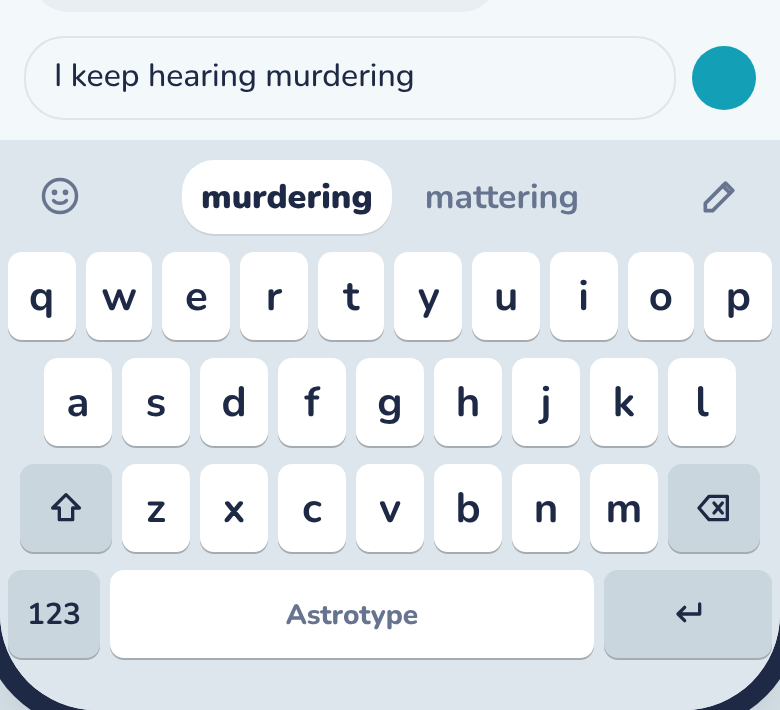
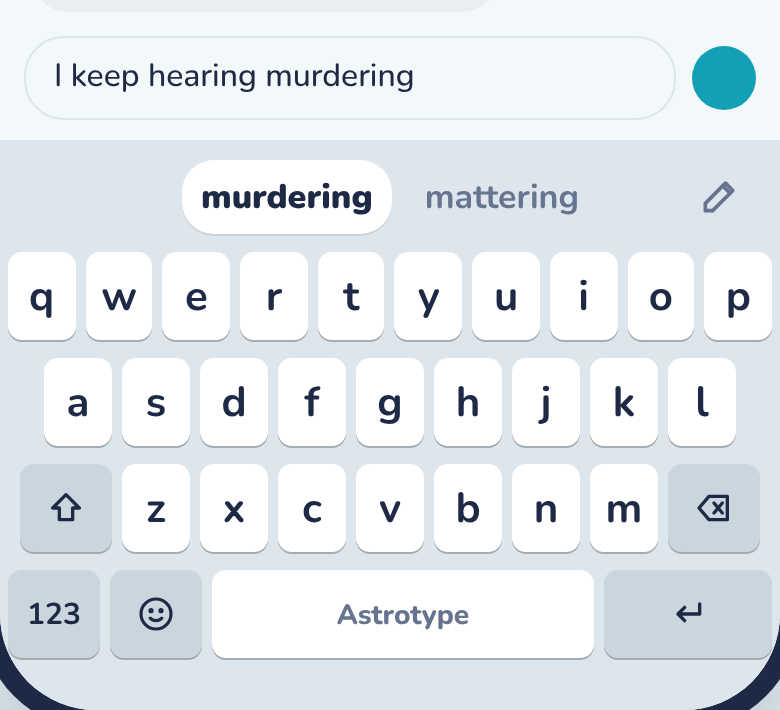
Astrotype guesses bar plan: globe in the left slot, emoji stays next to 123
Claude-Session: https://claude.ai/code/session_01GG78NCz4nRY1ADj5nM9mUn

Changed region(s): [[0.1231, 0.8056, 0.2769, 0.9296], [0.3692, 0.8366, 0.6154, 0.8986], [0.0308, 0.2479, 0.1231, 0.3099]]

diff --git a/apps/astrotype/features/guesses-bar/design/mockups/guesses-bar.html b/apps/astrotype/features/guesses-bar/design/mockups/guesses-bar.html
@@ -102,7 +102,7 @@ body{background:var(--stage);color:var(--ink);font-family:var(--font);
 <div class="stage">
   <div class="picker">
     <h1>Guesses bar</h1>
-    <p>The strip above the keys, redesigned so each thing has one place: the words in the middle, always centred, and buttons at the two ends. Tap the words, the chip and the pencil, they work.</p>
+    <p>The strip above the keys, redesigned so each thing has one place: the words in the middle, always centred, and one button at each end: the globe on the left (on phones where we draw it), the pencil for "Not it?" on the right. Tap the words, the chip and the pencil, they work.</p>
     <small>Design</small>
     <button data-design="today">Today</button>
     <button data-design="A">A: centred, with a swap chip</button>
@@ -115,8 +115,7 @@ body{background:var(--stage);color:var(--ink);font-family:var(--font);
     <button data-scene="long">Long words</button>
     <small>Phone</small>
     <div class="pills">
-      <button id="emojiBtn" data-toggle="emoji">Emoji in bar</button>
-      <button id="globeBtn" data-toggle="globe">Home button (globe)</button>
+      <button id="globeBtn" data-toggle="globe">Our globe key (Home button, Duo)</button>
       <button id="labelsBtn" data-toggle="labels">Show zones</button>
     </div>
     <div class="pills" style="margin-top:6px">
@@ -157,7 +156,7 @@ const WHY = {
   A:'<b>A.</b> Words always sit together in the middle. The word you are typing is in the white pill in the centre. After a word, a chip with ⇄ swaps it for the best other reading; the next words follow the line. The pencil at the right opens "What did you mean?".',
   B:'<b>B (recommended).</b> The middle only ever holds one kind of thing: words you could write now. Everything about fixing the last word lives behind the pencil: tap it and the bar shows the other readings, the word is highlighted in your text, and "Type it" is the last choice. One more tap to fix, but nothing to decode.',
 };
-const S = {design:'B', scene:'after', emoji:true, globe:false, labels:false, mode:null, typed:'', theme:null, size:'phone', fresh:false};
+const S = {design:'B', scene:'after', emoji:false, globe:false, labels:false, mode:null, typed:'', theme:null, size:'phone', fresh:false};
 // The text, per moment. readings[cur] is what is in the field.
 let W;
 function reset(){
@@ -219,14 +218,14 @@ function barNew(){
   if (S.mode==='field') return barField();
   const canFix = W.swiped;
   let left = '', right = '', center = '';
-  const nl0 = S.emoji?1:0, nr0 = (canFix?1:0) + (S.globe?1:0);
+  const nl0 = S.globe?1:0, nr0 = canFix?1:0;
   if (S.mode==='fixrow'){
     left = btn('icon',ICON.close,'cancel','Back');
     const others = W.readings.map((_,i)=>i).filter(i=>i!==W.cur);
-    const alts = fit(others, W.readings, -1, 1, S.globe?1:0, 86).map(i=>btn('g',esc(W.readings[i]),'swap:'+i)).join('');
+    const alts = fit(others, W.readings, -1, 1, 0, 86).map(i=>btn('g',esc(W.readings[i]),'swap:'+i)).join('');
     center = alts + btn('g type',ICON.pencil.replace('<svg','<svg width="14" height="14"')+'Type it','field','Type the word you meant');
   } else {
-    if (S.emoji) left = btn('icon',ICON.emoji,'emoji','Emoji');
+    if (S.globe) left = btn('icon',ICON.globe,'globe','Next keyboard');
     if (canFix) right += btn('icon',ICON.pencil,S.design==='B'?'fixrow':'field','Not it? Fix the last word');
     // Centre: one kind of thing, the best guess in the middle.
     if (W.guesses){
@@ -242,8 +241,7 @@ function barNew(){
       center = chip + words;
     }
   }
-  if (S.globe) right += btn('icon',ICON.globe,'globe','Next keyboard');
-  const nl = left?1:0, nr = (canFix && S.mode!=='fixrow' ? 1:0) + (S.globe?1:0);
+  const nl = left?1:0, nr = (canFix && S.mode!=='fixrow' ? 1:0);
   return `<div class="grid" style="${sides(nl,nr)}">
     <div class="slot l">${left}</div><div class="center">${center}</div><div class="slot r">${right}</div></div>`;
 }
@@ -264,7 +262,7 @@ function middleFirst(n, chosen){
 function renderKeys(){
   const r = ['qwertyuiop','asdfghjkl','zxcvbnm'];
   const inBar = S.design!=='today';
-  const bottomEmoji = !inBar || !S.emoji;
+  const bottomEmoji = true;
   const bottomGlobe = S.globe && !inBar;
   $('#rows').innerHTML =
     `<div class="krow">${[...r[0]].map(c=>`<button class="key" data-key="${c}">${c}</button>`).join('')}</div>`+
@@ -276,14 +274,14 @@ function renderKeys(){
 function render(){
   document.querySelectorAll('[data-design]').forEach(b=>b.setAttribute('aria-current', b.dataset.design===S.design));
   document.querySelectorAll('[data-scene]').forEach(b=>b.setAttribute('aria-current', b.dataset.scene===S.scene));
-  $('#emojiBtn').setAttribute('aria-pressed', S.emoji); $('#globeBtn').setAttribute('aria-pressed', S.globe); $('#labelsBtn').setAttribute('aria-pressed', S.labels);
+  $('#globeBtn').setAttribute('aria-pressed', S.globe); $('#labelsBtn').setAttribute('aria-pressed', S.labels);
   document.querySelectorAll('[data-theme-set]').forEach(b=>b.setAttribute('aria-pressed', (S.theme||(matchMedia('(prefers-color-scheme: dark)').matches?'dark':'light'))===b.dataset.themeSet));
   document.querySelectorAll('[data-size]').forEach(b=>b.setAttribute('aria-pressed', S.size===b.dataset.size));
   $('#phone').className = 'phone' + (S.size==='small'?' small':'') + (S.labels?' labels':'');
   $('#why').innerHTML = WHY[S.design];
   const bar = $('#bar');
   bar.innerHTML = (S.design==='today' ? barToday() : barNew()) +
-    (S.labels && S.design!=='today' ? '<div class="legend"><span>Button</span><span>Words, centred</span><span>Buttons</span></div>' : '');
+    (S.labels && S.design!=='today' ? '<div class="legend"><span>Globe</span><span>Words, centred</span><span>Not it?</span></div>' : '');
   bar.classList.toggle('fresh', S.fresh); S.fresh=false;
   renderField(); renderKeys();
 }

diff --git a/apps/astrotype/features/guesses-bar/FEATURE.md b/apps/astrotype/features/guesses-bar/FEATURE.md
@@ -16,14 +16,16 @@ Status: Draft
 - **Who wants it:** everyone. The bar is on screen for every word.
 - **Basics or powerful:** basics. No new setting.
 - **How it works:** the bar has three zones that never move:
-  - *Left end:* one button. The emoji key (from the wider space bar plan,
-    `features/space-bar`, PR #105), or ✕ while fixing a word.
+  - *Left end:* one button. The globe (next keyboard) on phones where our keyboard
+    draws it (whenever iOS asks us for one: Home-button iPhones, the iPhone Duo), from the wider space bar plan
+    (`features/space-bar`, PR #105; Gabriel, 3 Nov 2026). Empty on phones where iOS
+    draws its own globe. ✕ while fixing a word. The emoji key stays in the bottom row
+    next to 123.
   - *Middle:* the words, packed together and centred on the keyboard, never spread to
     the edges. Only one kind at a time: guesses for the word you're swiping, or likely
     next words. When a word is being guessed, the one space writes sits in the white
     pill in the centre, the other guesses either side of it.
-  - *Right end:* the pencil ("Not it?") after a swiped word, and on Home-button
-    iPhones the globe after it.
+  - *Right end:* the pencil ("Not it?") after a swiped word.
 - **Fixing the last word** is the choice for Gabriel:
   - **Option A, a swap chip:** after a word, the best other reading sits first in the
     middle as a chip with a ⇄ swap mark (replacing the "FIX" text), a hairline, then
@@ -56,7 +58,8 @@ Status: Draft
 Status: Draft
 
 - **Mockups:** `design/mockups/guesses-bar.html` (Artifact link:
-  https://claude.ai/artifact/7fGTgXpYQFUrw4qv4o3Cxn). Pick a design (Today, A, B) and a
+  https://claude.ai/artifact/7fGTgXpYQFUrw4qv4o3Cxn). "Our globe key" shows a phone
+  where we draw the globe. Pick a design (Today, A, B) and a
   moment, then tap the words, the chip and the pencil; the keys type into the "What did
   you mean?" field. "Show zones" labels the three parts.
 - **What changes:**
@@ -70,13 +73,14 @@ Status: Draft
   - *Pencil tapped* (B only, the fix row): ![](design/screens/05-B-fixrow.png)
   - *"What did you mean?"* (A and B, as today, now with ✕ in the left slot): ![](design/screens/08-B-field.png)
 - **Layout rules:**
-  - The two end slots are each 44 pt wide (one icon button, 44 pt touch target). When
-    one end holds two buttons (pencil and globe), both ends widen to 88 pt so the middle
-    stays centred on the keyboard. An empty end stays empty; nothing slides into it.
+  - The two end slots are each 44 pt wide (one icon button, 44 pt touch target), the
+    same width on both sides so the middle stays centred on the keyboard. An empty end
+    stays empty; nothing slides into it. The "What did you mean?" field widens both
+    ends to fit ✕ and Save.
   - Words in the middle hug their text with 6 pt between them, at most three. The
     chosen guess is in the centre. When three don't fit whole, the outer guesses drop
     one at a time (never the chosen one) rather than truncating, so a long word is
-    never cut ([long words, small phone, with globe](design/screens/09-B-long-small-globe.png)).
+    never cut ([long words, small phone, with our globe](design/screens/09-B-long-small-globe.png)).
   - The idle note ("Both thumbs, one word") and the "Two thumbs is in Astrotype Pro"
     notice centre in the middle zone, with the ends as they are.
 - **Motion and copy:** new next words rise in over 0.25 s as today. Picking from the
@@ -85,13 +89,14 @@ Status: Draft
   "Type it". No other new copy.
 - **Design system:** the existing guess button (plain and pill), the ice chip and the
   hairline. New: a bar icon button (44 pt, `muted` SF Symbol, `keyDark` when pressed)
-  used for emoji, pencil, globe and ✕, and the dashed "Type it" chip (`line` border).
+  used for the globe, pencil and ✕, and the dashed "Type it" chip (`line` border).
   Option A's chip swaps the "FIX" text for the `arrow.left.arrow.right` symbol in
   `accent`. No new tokens.
 - **Sizes:** the bar is the same height everywhere. On the small phone the middle drops
   guesses rather than cut words. Wide screens and the split keyboard put the guesses in
-  a column, where the emoji and globe go back to the bottom row (PR #105).
+  a column, where the globe goes back next to 123 (PR #105).
 - **Dark:** ![](design/screens/10-B-after-dark.png)
+- **With our globe** (Home-button iPhones, the iPhone Duo): ![](design/screens/12-B-after-globe.png)
 - **Accessibility:** VoiceOver reads the bar as "Suggestions": left button, the words
   in order, right buttons. Pencil: "Not it? Fix the last word". The fix row's words get
   the hint "Replaces the last word". Dynamic Type scales the words one step as today.
@@ -103,7 +108,8 @@ Status: Not started
 - **Approach:** `BarView` only, plus a small model change for option B. The bar becomes
   three views (left slot, middle stack, right slot) laid out by `BarView`; the middle
   stack is centred on the bar's width and drops outer guesses to fit. The space bar
-  thread's emoji and globe buttons go into the slots (coordinated with PR #105).
+  work (PR #105) adds a small `leadingKey` (globe) hook to `BarView`; this redesign
+  places it in the left slot.
 - **Core pieces:** option B adds `Composer.Bar.fixing([String], chosen: Int)` (the fix
   row), entered by `Composer.beginFix()` from the pencil and left by a pick, ✕ or any
   key; `Bar.next` then no longer needs its `fix` payload shown, but keeps it so the fix
@@ -111,6 +117,6 @@ Status: Not started
 - **Phases:** one PR: the three-zone layout and the chosen option, with DESIGN.md "The
   bar" updated. Done when: on a phone the words sit centred in every state, the pencil
   works, and nothing is cut off on the small size or the largest text size.
-- **Risks:** emoji and globe in the bar depend on PR #105 landing; until then the left
-  slot is empty and the globe stays in the bottom row.
+- **Risks:** the globe in the bar comes from PR #105; until it lands the left slot is
+  empty and the globe stays in the bottom row.
 - **Last step:** fold this into `DESIGN.md` "The bar" and screen 12.
